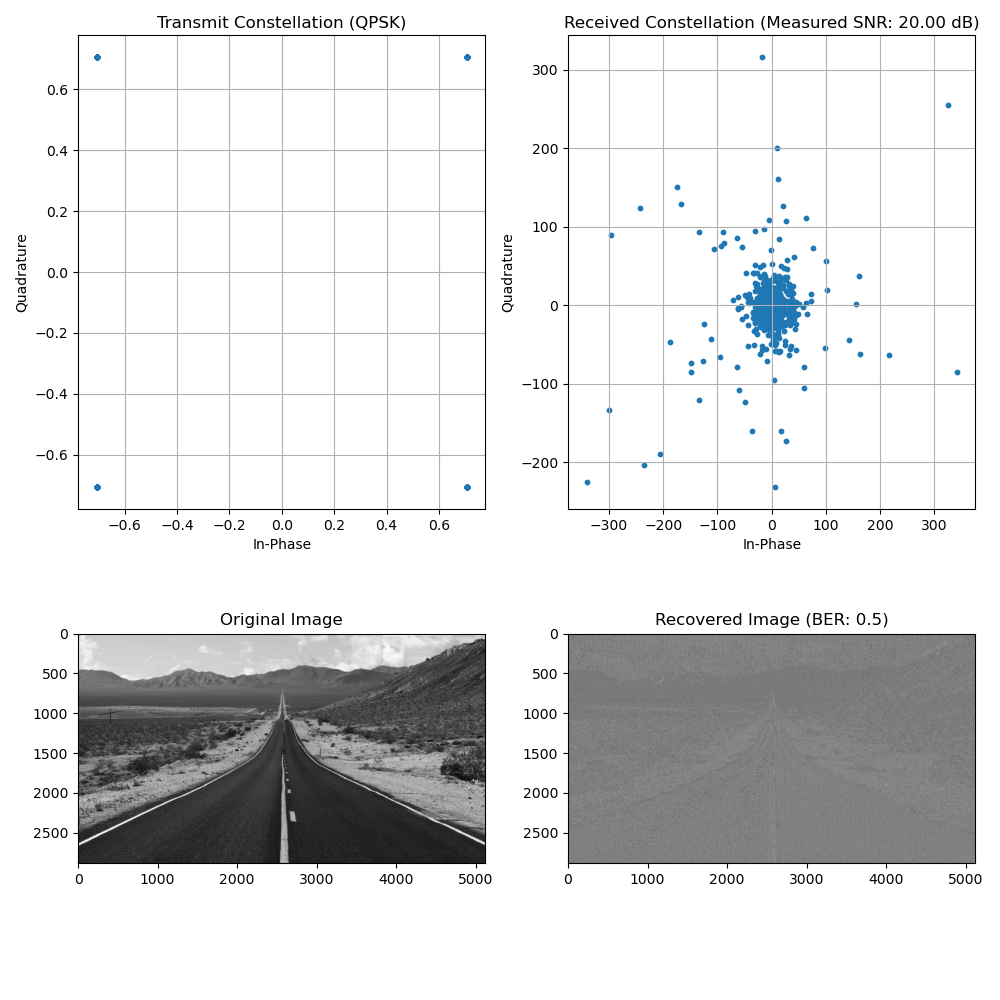
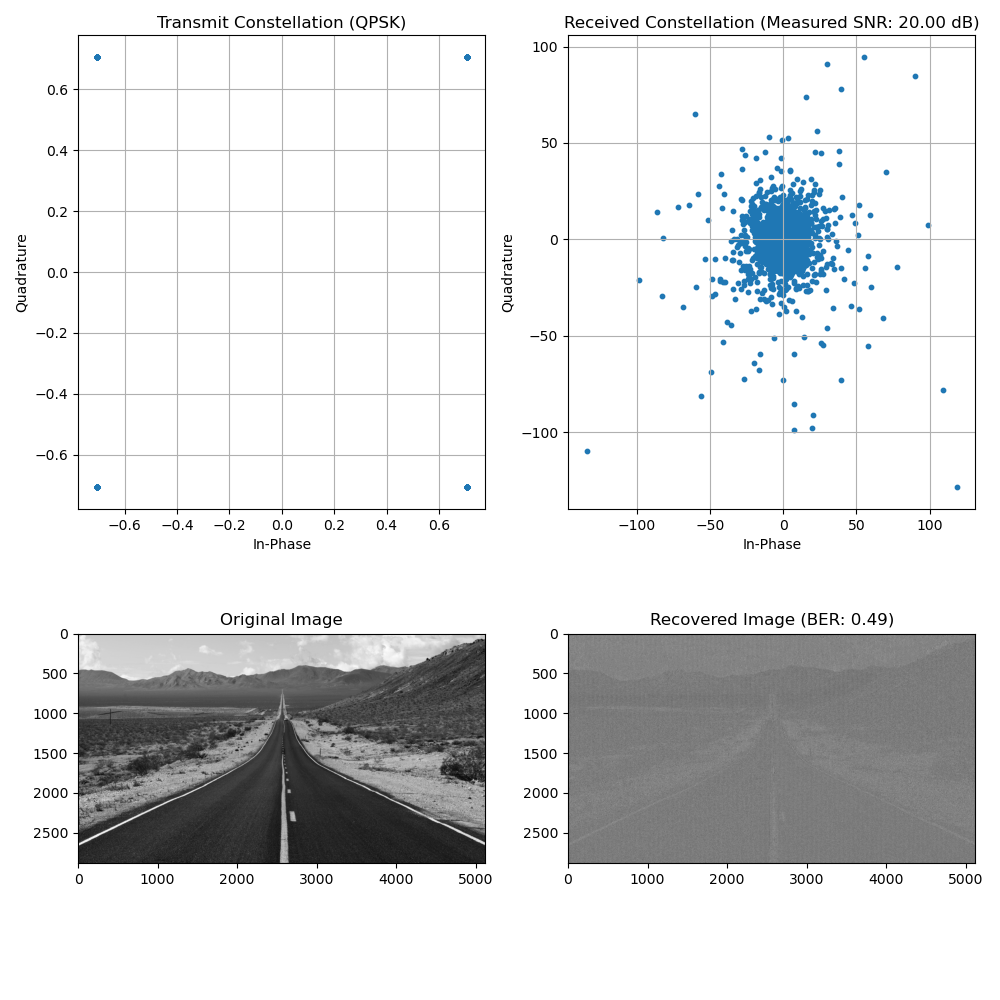
[ADD: final_n]

diff --git a/final/ofdm_QPSK.py b/final/ofdm_QPSK.py
@@ -1,0 +1,162 @@
+import numpy as np
+import matplotlib.pyplot as plt
+from scipy.spatial import cKDTree
+from scipy.signal import convolve
+from skimage.io import imread
+
+# Parameters
+mod_method = 'QPSK'
+n_fft = 64
+n_cpe = 16
+snr = 30  # in dB
+n_taps = 4
+ch_est_method = 'MMSE'
+
+# Modulation configuration
+mod_methods = ['BPSK', 'QPSK', '8PSK', '16QAM', '32QAM', '64QAM']
+mod_order = mod_methods.index(mod_method) + 1
+
+# Load image
+im = imread('VN.png')
+
+if im.shape[-1] == 4:
+    im = im[:, :, :3]
+
+im_bin = []
+for i in range(3):  # Xử lý từng kênh màu
+    channel = (im[:, :, i] * 255).astype(np.uint8) if im.dtype != np.uint8 else im[:, :, i]
+    im_bin.append(np.unpackbits(channel.flatten()))
+
+im_bin = np.concatenate(im_bin)  # Gộp các kênh lại
+
+# # Padding and symbol mapping
+# sym_rem = (mod_order - len(im_bin) % mod_order) % mod_order
+# padding = np.zeros(sym_rem, dtype=np.uint8)
+# im_bin_padded = np.concatenate((im_bin, padding))
+# cons_data = im_bin_padded.reshape(-1, mod_order)
+# cons_sym_id = np.packbits(cons_data, axis=1).flatten()
+
+# Generate modulation symbol book
+if mod_method in ['BPSK', 'QPSK', '8PSK']:
+    mod_ind = 2**mod_order
+    angles = np.linspace(0, 2 * np.pi, mod_ind, endpoint=False)
+    symbol_book = np.exp(1j * angles)
+elif mod_method in ['16QAM', '64QAM', '32QAM']:
+    mod_ind = int(np.sqrt(2**mod_order))
+    in_phase = np.linspace(-1, 1, mod_ind)
+    quadrature = np.linspace(-1, 1, mod_ind)
+    in_phase, quadrature = np.meshgrid(in_phase, quadrature)
+    symbol_book = in_phase.flatten() + 1j * quadrature.flatten()
+    if mod_method == '32QAM':
+        mask = np.abs(in_phase.flatten()) + np.abs(quadrature.flatten()) > 1
+        symbol_book = symbol_book[~mask]
+
+# Padding và ánh xạ ký hiệu
+sym_rem = (mod_order - len(im_bin) % mod_order) % mod_order
+padding = np.zeros(sym_rem, dtype=np.uint8)
+im_bin_padded = np.concatenate((im_bin, padding))
+cons_data = im_bin_padded.reshape(-1, mod_order)
+cons_sym_id = np.dot(cons_data, 1 << np.arange(cons_data.shape[1])[::-1])
+cons_sym_id = cons_sym_id % len(symbol_book)  # Đảm bảo trong phạm vi hợp lệ
+
+# Chuyển đổi từ bit nhị phân sang chỉ số ký hiệu
+cons_sym_id = np.dot(cons_data, 1 << np.arange(cons_data.shape[1])[::-1])
+cons_sym_id = cons_sym_id % len(symbol_book)  # Giới hạn chỉ số trong phạm vi hợp lệ
+
+# Kiểm tra tính hợp lệ
+assert np.all(cons_sym_id < len(symbol_book)), "cons_sym_id vẫn chứa giá trị ngoài phạm vi!"
+
+# Điều chế dữ liệu
+X = symbol_book[cons_sym_id]
+
+# OFDM block creation
+fft_rem = (n_fft - len(X) % n_fft) % n_fft
+X_padded = np.concatenate((X, np.zeros(fft_rem, dtype=np.complex64)))
+X_blocks = X_padded.reshape(-1, n_fft)
+x = np.fft.ifft(X_blocks, axis=1)
+
+# Add cyclic prefix extension
+x_cpe = np.hstack((x[:, -n_cpe:], x))
+x_s = x_cpe.flatten()
+
+# Add noise
+data_pwr = np.mean(np.abs(x_s)**2)
+noise_pwr = data_pwr / (10**(snr / 10))
+noise = np.sqrt(noise_pwr / 2) * (np.random.randn(*x_s.shape) + 1j * np.random.randn(*x_s.shape))
+x_s_noise = x_s + noise
+
+# Fading channel
+g = np.exp(-np.arange(n_taps))
+g /= np.linalg.norm(g)
+x_s_noise_fading = convolve(x_s_noise, g, mode='same')
+
+# Reshape back to OFDM blocks
+x_p = x_s_noise_fading.reshape(-1, n_fft + n_cpe)
+x_p_cpr = x_p[:, n_cpe:]
+
+# Move to frequency domain
+X_hat_blocks = np.fft.fft(x_p_cpr, axis=1)
+
+# Channel estimation and equalization
+if n_taps > 1:
+    if ch_est_method == 'MMSE':
+        G = X_hat_blocks[:, 0] / X_blocks[:, 0]
+        G_mmse = np.conj(G) / (np.abs(G)**2 + (noise_pwr / (data_pwr * 0.5)))  # Tỷ lệ SNR
+        X_hat_blocks *= G_mmse[:, None]  # Áp dụng cho toàn bộ tín hiệu
+
+X_hat = X_hat_blocks.flatten()[:len(X)]
+
+# Demodulation
+rec_syms = np.array([np.argmin(np.abs(symbol_book - sym)) for sym in X_hat])
+
+# Recover binary data
+rec_syms_cons = np.unpackbits(rec_syms.astype(np.uint8).reshape(-1, 1), axis=1)[:, -mod_order:]
+rec_im_bin = rec_syms_cons.flatten()[:len(im_bin)]
+ber = np.sum(rec_im_bin != im_bin) / len(im_bin)
+
+# Recover image
+# Phục hồi từng kênh từ dữ liệu nhị phân
+rec_im_bin_split = np.split(rec_im_bin, 3)
+rec_channels = []
+for i in range(3):
+    rec_channels.append(np.packbits(rec_im_bin_split[i]).reshape(im[:, :, i].shape))
+
+# Gộp lại thành ảnh màu
+rec_im = np.stack(rec_channels, axis=-1)
+
+# Visualization
+plt.figure(figsize=(10, 10))
+
+# Transmit constellation
+plt.subplot(2, 2, 1)
+plt.plot(X.real, X.imag, 'x', linewidth=2, markersize=10)
+plt.xlim([-2, 2])
+plt.ylim([-2, 2])
+plt.xlabel('In phase')
+plt.ylabel('Quadrature')
+plt.title(f'Transmit Constellation\n{mod_method} Modulation')
+plt.grid()
+
+# Received constellation
+plt.subplot(2, 2, 2)
+plt.plot(X_hat.real[::500], X_hat.imag[::500], 'x', markersize=3)
+plt.xlim([-2, 2])
+plt.ylim([-2, 2])
+plt.xlabel('In phase')
+plt.ylabel('Quadrature')
+plt.title(f'Received Constellation\nMeasured SNR: {snr:.2f} dB')
+plt.grid()
+
+# Original image
+plt.subplot(2, 2, 3)
+plt.imshow(im, cmap='gray')
+plt.title('Transmit Image')
+
+# Recovered image
+plt.subplot(2, 2, 4)
+plt.imshow(rec_im, cmap='gray')
+plt.title(f'Recovered Image\nBER: {ber:.2g}')
+
+plt.tight_layout()
+plt.savefig('rusult3.png')
+plt.show()

diff --git a/ofdm_3/final.py b/ofdm_3/final.py
@@ -8,10 +8,11 @@ from skimage.util import img_as_ubyte
 
 # Simulation parameters
 mod_method = 'QPSK'
+ch_est_method = 'MMSE'
 n_fft = 64
 n_cpe = 16
-snr = 20
-n_taps = 8
+snr = 30
+n_taps = 4
 ch_est_method = 'LS'
 
 # Modulation methods
@@ -19,7 +20,7 @@ mod_methods = {'BPSK': 1, 'QPSK': 2, '8PSK': 3, '16QAM': 4, '32QAM': 5, '64QAM':
 mod_order = mod_methods[mod_method]
 
 # Load and process image
-im = imread('image.jpg', as_gray=True)  # Read image as grayscale
+im = imread('image2.jpg', as_gray=True)  # Read image as grayscale
 im = img_as_ubyte(im)
 im_bin = ''.join(format(byte, '08b') for byte in im.ravel())
 
@@ -29,7 +30,8 @@ im_bin_padded = im_bin + '0' * sym_rem
 if mod_order == 1:  # Special case for BPSK
     symbols = [int(bit) for bit in im_bin_padded]
 else:
-    symbols = [int(im_bin_padded[i:i+mod_order], 2) for i in range(0, len(im_bin_padded), mod_order)]
+    symbols = [int(im_bin_padded[i:i+mod_order], 2) 
+               for i in range(0, len(im_bin_padded), mod_order) ]
     
 # # Define symbol book
 # if mod_order == 1:  # BPSK
@@ -57,8 +59,9 @@ else:
 # Define symbol book for QPSK
 if mod_order == 2:  # QPSK
     mod_ind = 2 ** mod_order  # 4 symbols
-    angles = np.linspace(0, 2 * np.pi, mod_ind, endpoint=False) + np.pi / 4
-    symbol_book = np.cos(angles) + 1j * np.sin(angles)
+    angles = np.linspace(0, 2 * np.pi, 2 ** mod_order, endpoint=False) + np.pi / 4
+    symbol_book = np.cos(angles) + 1j * np.sin(angles)  # Chòm sao QPSK
+
 
 # Verify symbols and symbol book match
 assert max(symbols) < len(symbol_book), "Symbol index out of range for symbol book"
@@ -90,14 +93,24 @@ x_p = x_s_noise_fading.reshape(-1, n_fft + n_cpe)
 x_p_cpr = x_p[:, n_cpe:]
 X_hat_blocks = np.fft.fft(x_p_cpr, axis=1)
 
-# Channel estimation
-if n_taps > 1 and ch_est_method == 'LS':
-    G = X_hat_blocks[:, 0] / X_blocks[:, 0]
-    X_hat_blocks /= G[:, None]
+# Channel estimation MMSE
+# if n_taps > 1 and ch_est_method == 'LS':
+#     G = X_hat_blocks[:, 0] / X_blocks[:, 0]
+#     X_hat_blocks /= G[:, None]
+
+R_n = noise_pwr * np.eye(n_fft)
+H = np.fft.fft(np.hstack([g, np.zeros(n_fft - n_taps)]))  # Kênh trong miền tần số
+H_diag = np.diag(H)  # Tạo ma trận chéo
+H_MMSE = np.linalg.inv(H_diag.conj().T @ H_diag + R_n) @ H_diag.conj().T
+X_hat_blocks = H_MMSE @ X_hat_blocks.T
+X_hat_blocks = X_hat_blocks.T
+
+
 
 # Demodulation
 X_hat = X_hat_blocks.ravel()[:len(X)]
-rec_syms = np.array([np.argmin(distance.cdist([[z.real, z.imag]], np.c_[symbol_book.real, symbol_book.imag])) for z in X_hat])
+#rec_syms = np.array([np.argmin(distance.cdist([[z.real, z.imag]], np.c_[symbol_book.real, symbol_book.imag])) for z in X_hat])
+rec_syms = [np.argmin(np.abs(symbol_book - z)) for z in X_hat]
 
 # Convert symbols back to binary
 rec_bin = ''.join(format(s, f'0{mod_order}b') for s in rec_syms)
@@ -108,7 +121,9 @@ bit_errors = sum(a != b for a, b in zip(im_bin, rec_bin))
 ber = bit_errors / len(im_bin)
 
 # Recover image
-rec_im = np.array([int(rec_bin[i:i+8], 2) for i in range(0, len(rec_bin), 8)], dtype=np.uint8).reshape(im.shape)
+rec_bin = rec_bin[:len(im_bin)]  # Đảm bảo đúng kích thước gốc
+rec_im = np.array([int(rec_bin[i:i+8], 2) for i in range(0, len(rec_bin), 8)], dtype=np.uint8)
+rec_im = rec_im.reshape(im.shape)
 
 # Plot results
 plt.figure(figsize=(10, 10))
@@ -135,5 +150,5 @@ plt.imshow(rec_im, cmap='gray')
 plt.title(f"Recovered Image (BER: {ber:.2g})")
 
 plt.tight_layout()
-plt.savefig('Result.png')
+plt.savefig('Result3.png')
 plt.show()

diff --git a/final/ofdm_BPSK.py b/final/ofdm_BPSK.py
@@ -5,9 +5,9 @@ from skimage.io import imread
 
 # Parameters
 mod_method = 'BPSK'
-n_fft = 128
+n_fft = 64
 n_cpe = 16
-snr = 30  # in dB
+snr = 0  # in dB
 n_taps = 8
 ch_est_method = 'MMSE'
 
@@ -16,7 +16,7 @@ mod_order = 1  # BPSK chỉ sử dụng 1 bit trên mỗi ký hiệu
 symbol_book = np.array([-1, 1], dtype=np.complex64)  # Sách ký hiệu BPSK
 
 # Load image
-im = imread('image2.png')
+im = imread('VN.png')
 
 if im.shape[-1] == 4:
     im = im[:, :, :3]
